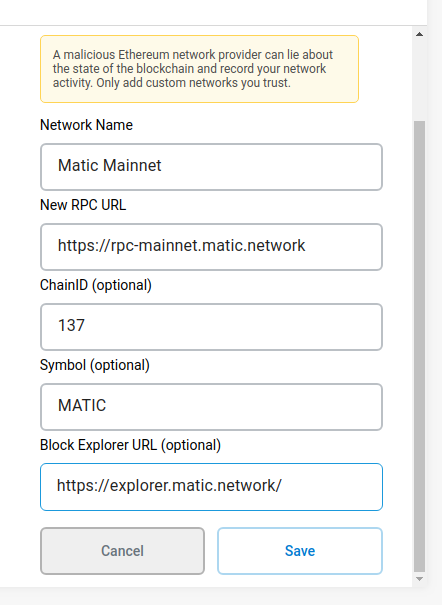
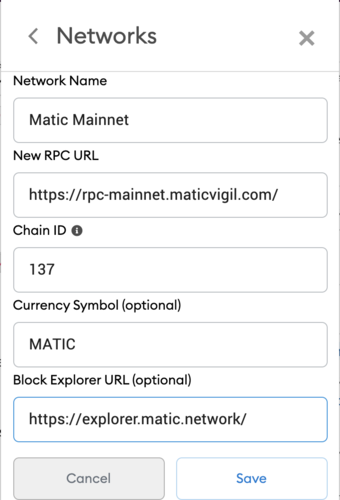
chg: rpc change

diff --git a/docs/develop/metamask/config-matic.md b/docs/develop/metamask/config-matic.md
@@ -26,9 +26,9 @@ To add Matic’s Mumbai-Testnet, click on the Network selection dropdown and the
 
 <img src={useBaseUrl("img/metamask/select-network.png")} />
 
-It will open up a form with 2 tabs on the top, Settings and Info. In the Settings tab you can add the URL `https://rpc-mumbai.matic.today`.
+It will open up a form with 2 tabs on the top, Settings and Info. In the Settings tab you can add the URL `https://rpc-mumbai.maticvigil.com/`.
 
-<img src={useBaseUrl("img/metamask/metamask-settings.png")} />
+<img src={useBaseUrl("img/metamask/metamask-settings-mumbai.png")} />
 
 Once you’ve added the URL in the New Network field, click on Save. You will be directly switched to Matic’s Mumbai-Testnet now in the network dropdown list. You can now close the dialog.
 </TabItem>
@@ -38,7 +38,7 @@ To add Matic’s Mainnet, click on the Network selection dropdown and then click
 
 <img src={useBaseUrl("img/metamask/select-network.png")} />
 
-It will open up a form with 2 tabs on the top, Settings and Info. In the Settings tab you can add the URL `https://rpc-mainnet.matic.network`.
+It will open up a form with 2 tabs on the top, Settings and Info. In the Settings tab you can add the URL `https://rpc-mainnet.maticvigil.com/`.
 
 <img src={useBaseUrl("img/metamask/metamask-settings-mainnet.png")} />
 
